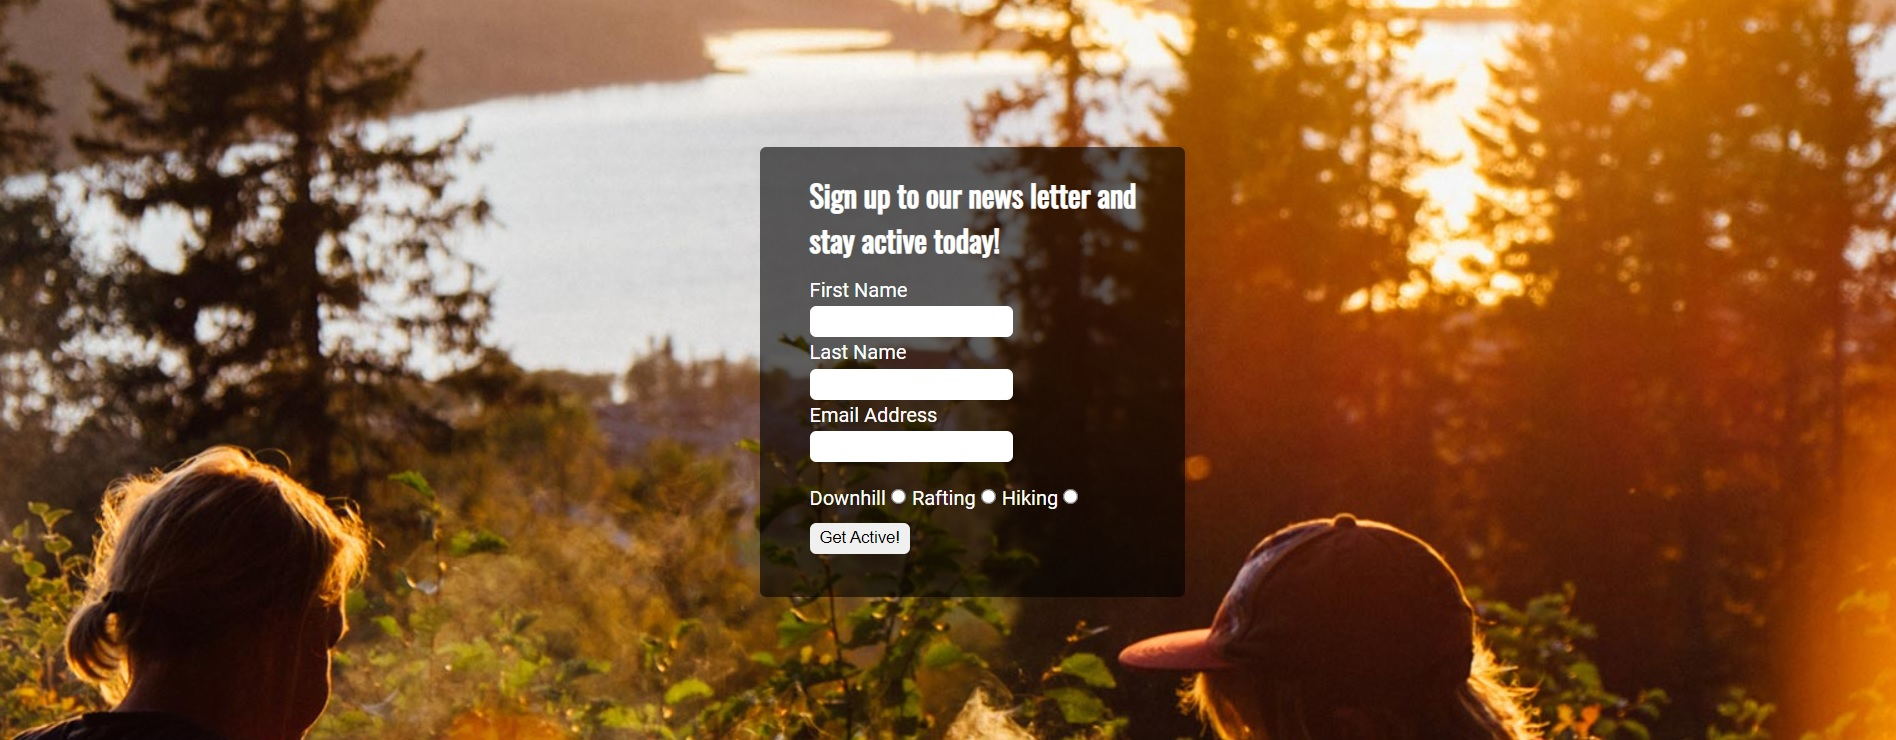
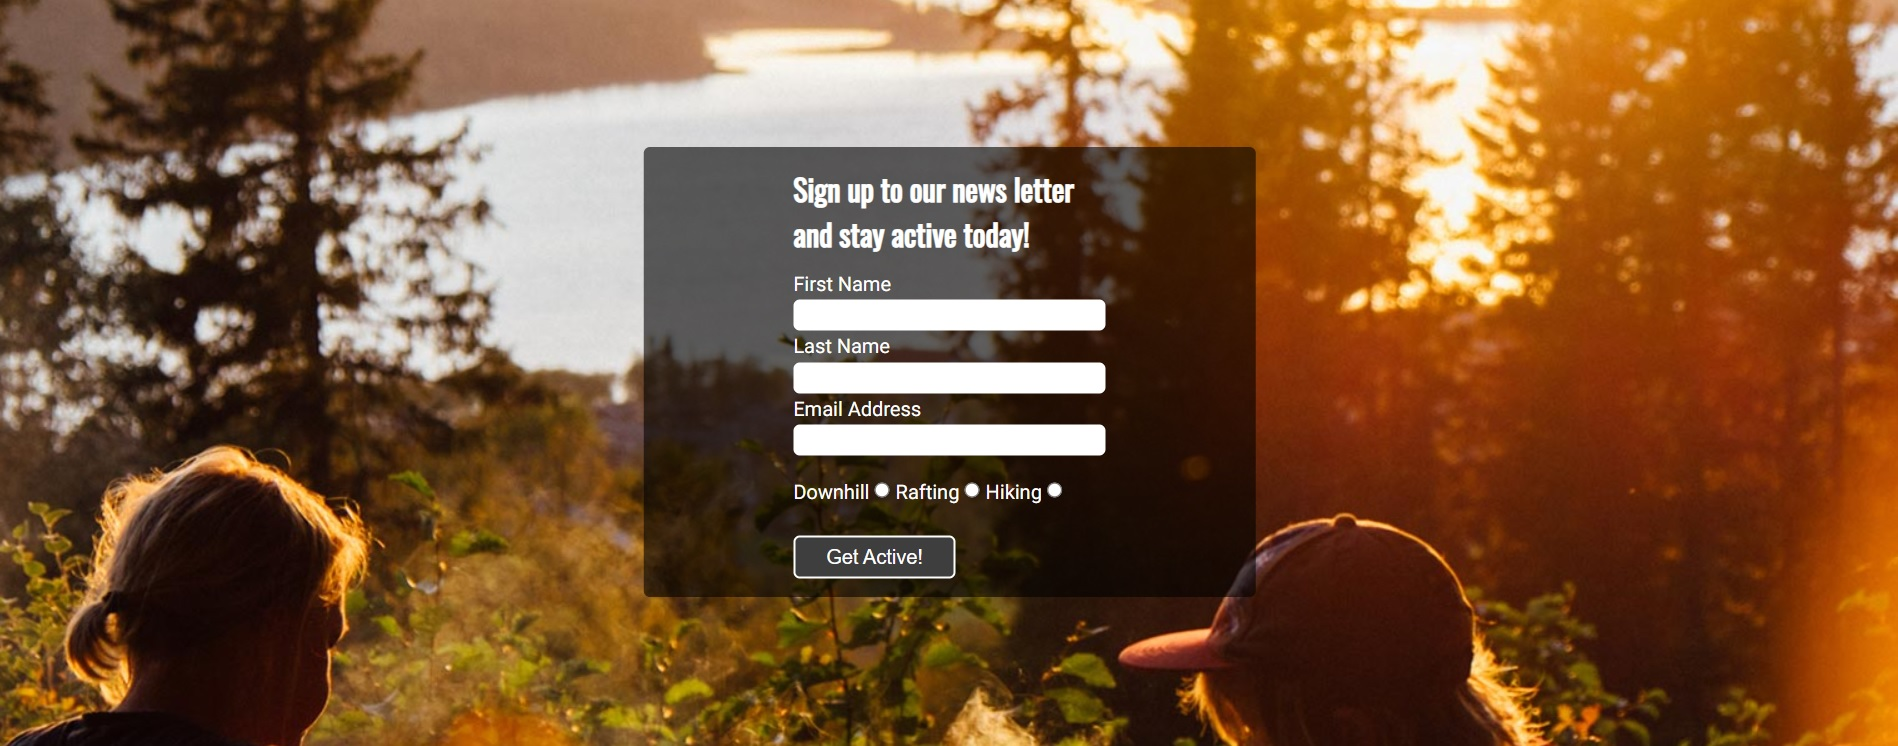
change width responsiveness for tablet for event summay box and event page box

diff --git a/assets/css/style.css b/assets/css/style.css
@@ -382,8 +382,8 @@ h2 {
 
     .event-box {
         display: block;
-        width: 90%;
-        margin: 5% 5%;
+        width: 65%;
+        margin: 5% auto;
     }
 
     /* event page*/
@@ -394,10 +394,9 @@ h2 {
     }
 
     .event-page-box {
-        width: 90%;
+        width: 65%;
         margin: 5% auto;
         display: block;
-        width: 80%;
 
     }
 
@@ -494,7 +493,6 @@ h2 {
         width: 90%;
         margin: 5% auto;
         display: block;
-        width: 80%;
 
     }
 

diff --git a/README.md b/README.md
@@ -13,7 +13,7 @@ This website is intended for people visitng åre and who are active and eager ea
 
   - A hero image as well as a short text both compelling the user to stay active.
   
-![hero image/text](/assets/images//hero-image-hero-text.jpg)  
+![hero image/text](/assets/images/hero-image-hero-text.jpg)  
 - EVENT SUMMARY
 
   - Three clickable boxes each summarising one of the three activites the user can read about. 
